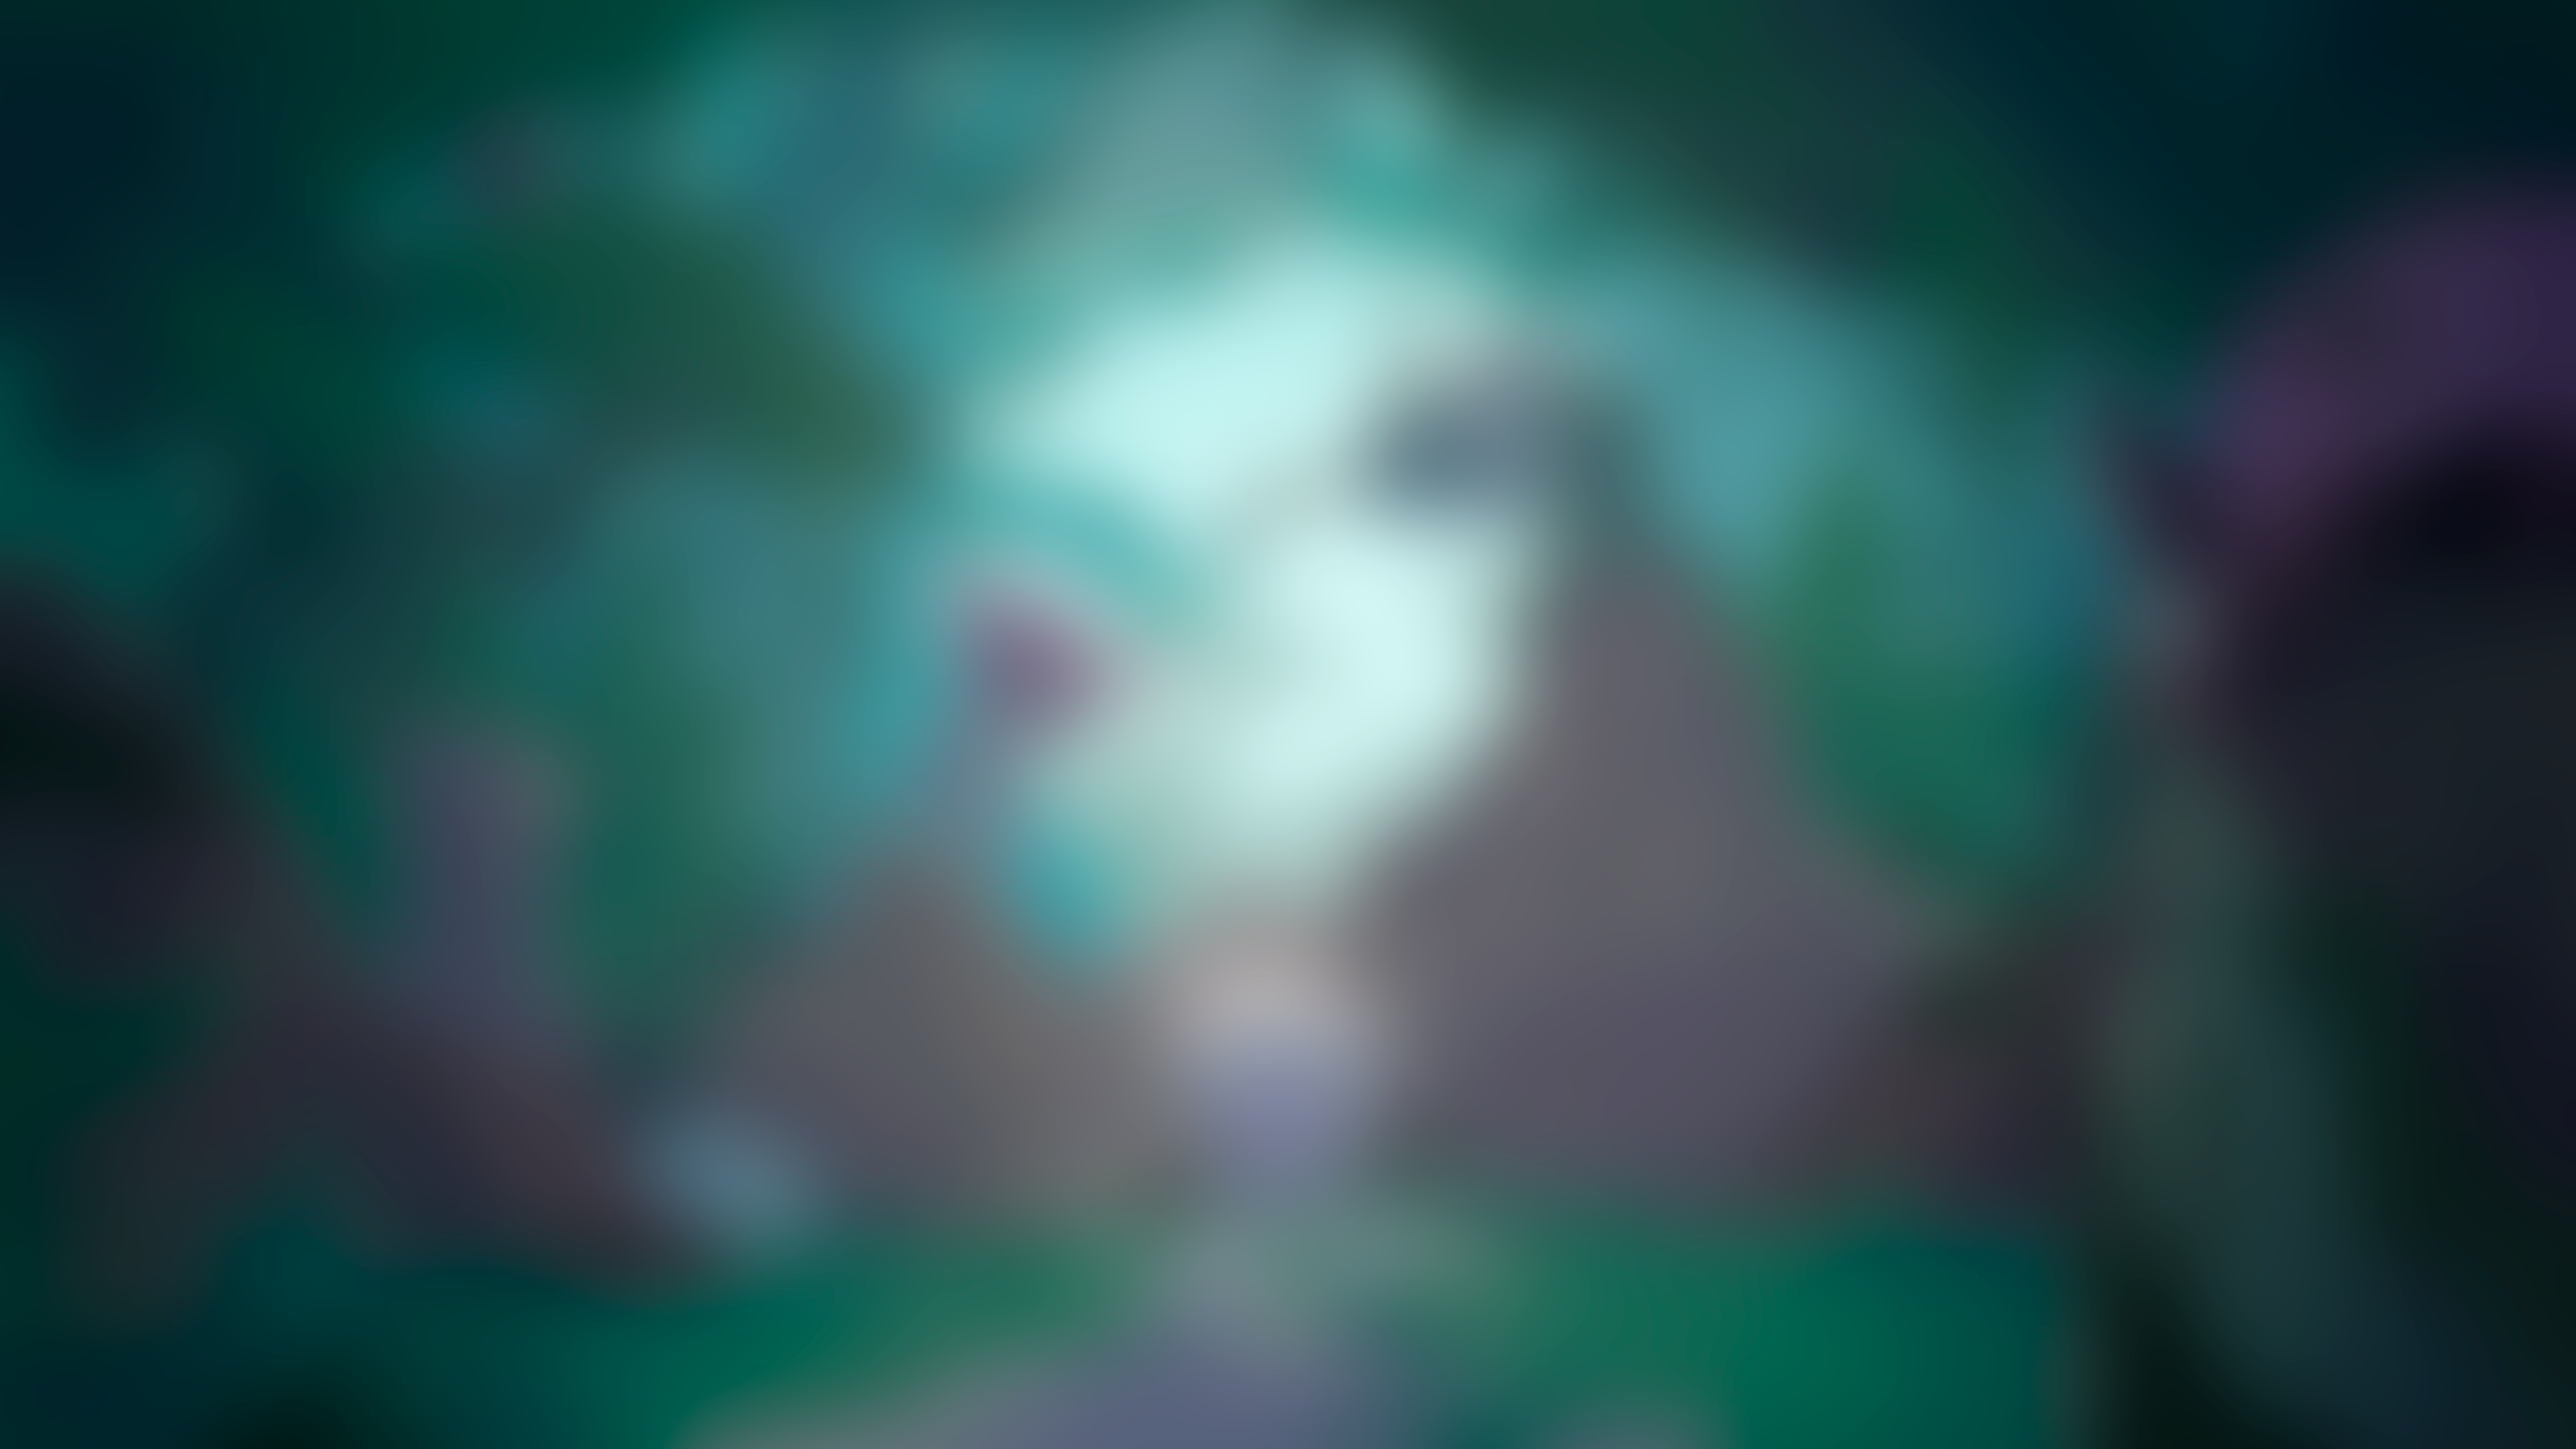
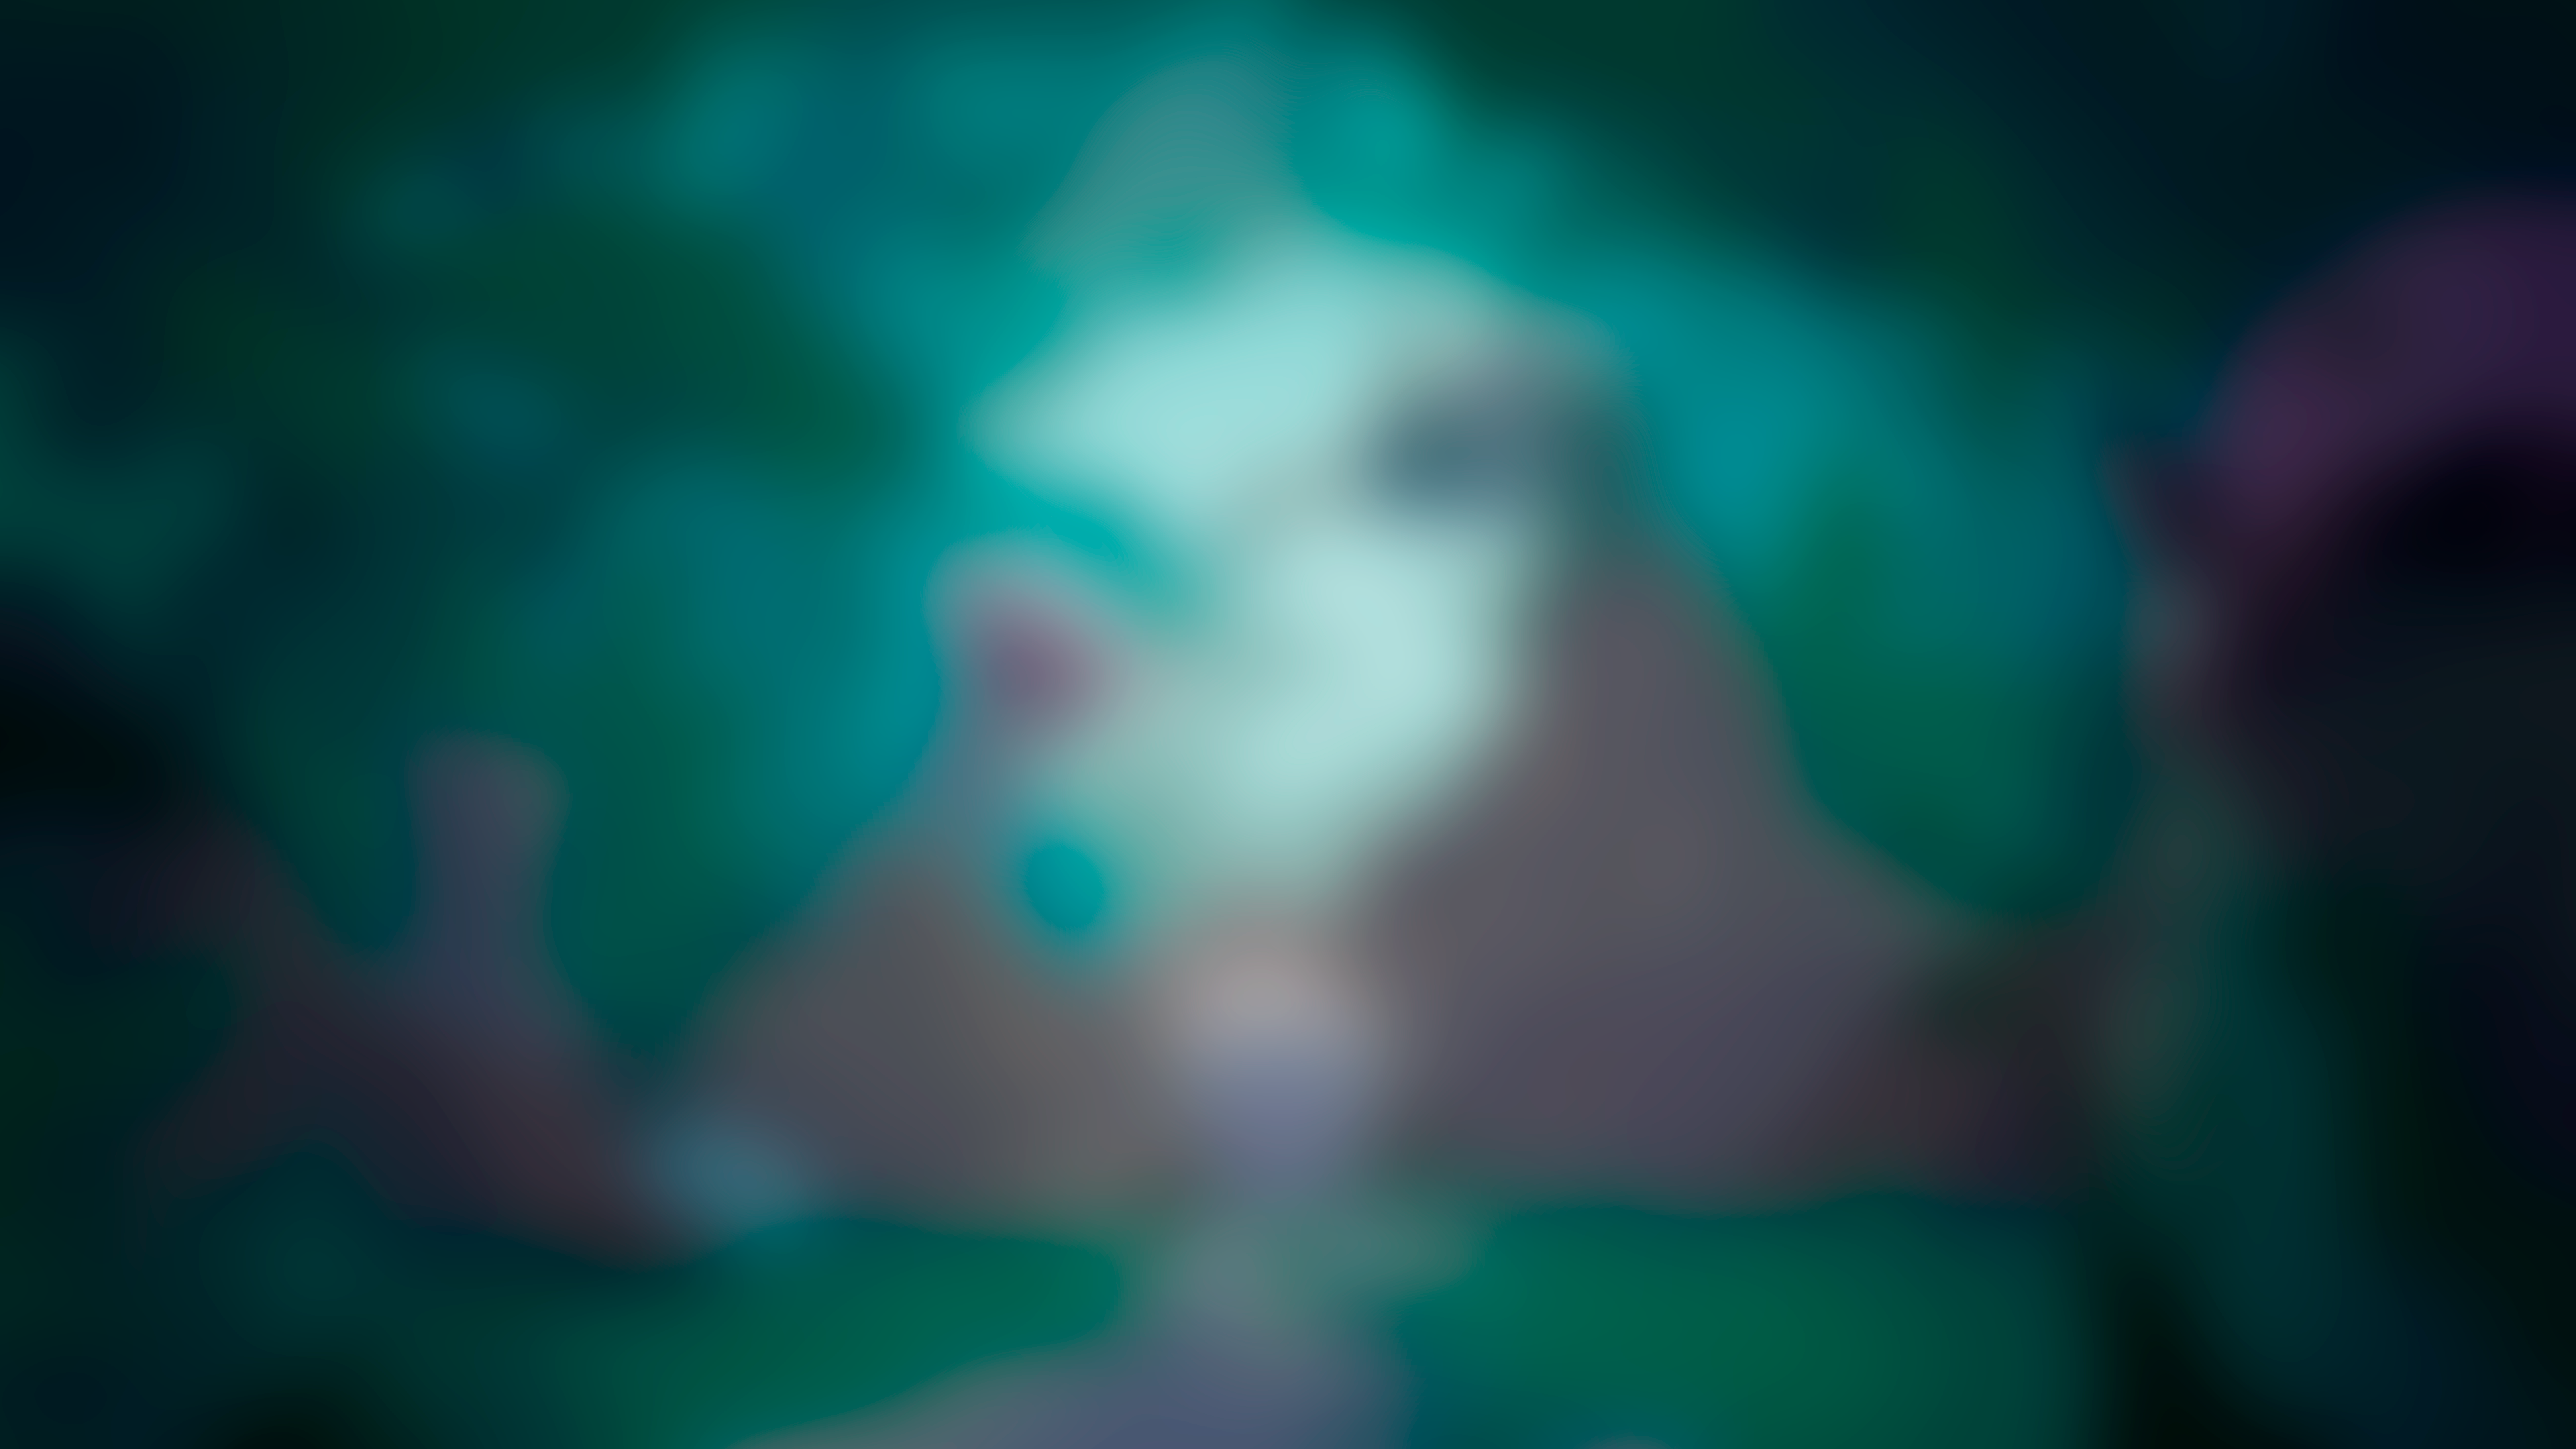
Página casi terminada

diff --git a/PaginaWebExtremeFireHazard/css/brunoStyle.css b/PaginaWebExtremeFireHazard/css/brunoStyle.css
@@ -251,6 +251,11 @@ body
 	color: #ffb6ff;
 	text-shadow: 3px 3px 5px #000000;
 }
+.efh-highlight
+{
+	color: #00aaff;
+	text-shadow: 3px 3px 5px #000000;
+}
 
 .divisor-line
 {
@@ -260,6 +265,52 @@ body
 	margin: auto;
 	width: 50vh;
     height: auto;
+}
+
+.card{
+	display: flex;
+    flex-flow: row nowrap;
+    align-items: center;
+    justify-content: center;
+    font-family: WhiteStorm;
+    color: white;
+    gap: 40px;
+	padding-left: 10%;
+	padding-right: 10%;
+    padding-top: 2%;
+    padding-bottom: 2%;
+	transition: padding 0.2s ease, background-color 0.2s ease;
+}
+.card:hover
+{
+	padding-top: 4%;
+    padding-bottom: 4%;
+	background-color: rgba(0, 0, 0, 0.65);
+}
+.card-img
+{	
+	width: 20%;
+	height: auto;
+	border: 0.25rem solid transparent;
+	border-radius: 20px;
+	transition: border 0.2s ease, width 0.2s ease;
+}
+.card-img:hover
+{	
+	width: 22%;
+	height: auto;
+	border: 0.25rem solid white;
+}
+.card-text
+{
+	padding-left: 10%;
+	flex: 1;
+	font-size: 2rem;
+	text-shadow: 2px 2px 7px #000000;
+}
+.card-text a
+{
+	color: violet;
 }
 
 #downloadButton
@@ -311,12 +362,8 @@ ul
 
 .footer
 {
-	font-family: 'Google', sans-serif;
-	font-weight:bold;
 	padding-bottom: 1%;
-	text-align: center;
 	color: white;
-	text-shadow: 2px 2px 7px #000000;
 	padding: 0 5%;
     width: 100%;
     height: 50px;
@@ -327,8 +374,17 @@ ul
 	margin-top: 4vh;
 	transition: all 0.3s ease;
 }
-
 .footer:hover
 {
     background: rgba(26, 11, 53, 1);
 }
+.footer a
+{
+	font-family: 'Google', sans-serif;
+	font-weight:bold;
+	text-align: center;
+	color: white;
+	text-shadow: 2px 2px 7px #000000;
+	text-decoration: none;
+}
+

diff --git a/PaginaWebExtremeFireHazard/html/bruno.html b/PaginaWebExtremeFireHazard/html/bruno.html
@@ -43,7 +43,7 @@
 				<img src="../media/img/Bruno/divider.png" alt="Divisor Decoration Line" class="divisor-line">
 				
 				<div id="catchphrase"> 
-					<p> The <span class="pink-highlight"> prototype </span> that <span class="pink-highlight">forged us </span> </p>
+					<p> The <span class="pink-highlight"> prototype </span> that <span class="pink-highlight">forged</span> <span class="efh-highlight">Extreme Fire Hazard </span> </p>
 				</div>
 				
 				<div id="short-description"> 
@@ -56,19 +56,45 @@
 			</section>
 			
 			
-			<section id="card-1">
-			<img src="../media/img/Bruno/concept.png" alt="First Iru's Dawn Concept">
-			
-			
+			<section id="card-1" class="card">
+			<img class="card-img" src="../media/img/Bruno/concept.png" alt="First Iru's Dawn Concept">
+			<div class="card-text">
+				<p><span class="pink-highlight">Iru's Dawn</span> started as a 2020 highschool project. 
+				Two of our members, <span class="pink-highlight">Rafa</span> and <span class="pink-highlight">Bruno</span>,
+				developed an early concept as part of their Diploma.
+				Here, <span class="pink-highlight">Iru's Dawn</span> was a <span class="pink-highlight">top-down pixel art RPG</span>.</p>
+				<p>Since then, the <span class="pink-highlight">project</span> has evolved and
+				the <span class="pink-highlight">team</span> behind it has grown.</p>
+			</div>
 			</section>
 			
-			<section id="card-2">
-			<img src="../media/img/Bruno/progress.png" alt="Iru's Dawn Pixel Art Progress Example">
+			<section id="card-2" class="card">
+				<div class="card-text">
+					<p><span class="pink-highlight">2024</span> came, and <span class="pink-highlight">University</span> with it. 
+					The team grew, and <span class="efh-highlight">Extreme Fire Hazard</span> was <span class="pink-highlight">created</span>
+					as it is known today.
+					As a final <span class="pink-highlight">Game Development Degree project</span>, they developed <span class="pink-highlight">two</span>
+					potential <span class="pink-highlight">prototypes</span>. 
+					One was <a href="rafa.html">Snackrifice</a>.</p>
+					<p>The other one was <span class="pink-highlight">Iru's Dawn</span>.</p>
+					<p>The project was <span class="pink-highlight">refactored and redesigned</span>, into what it is today:</p>	
+					<p>A 2.5D <span class="pink-highlight">roguelite</span> shooter where you <span class="pink-highlight">face</span>
+					the <span class="pink-highlight">killer of the Universe</span>.</p>	
+				</div>
+				<img class="card-img" src="../media/img/Bruno/progress.png" alt="Iru's Dawn Pixel Art Progress Example">
 			</section>
 			
-			<section id="card-3">
-			<img src="../media/img/Bruno/mystery.png" alt="Iru's Dawn Strange Narrative Mystery Screenshot">
-			
+			<section id="card-3" class="card">
+				<img class="card-img" src="../media/img/Bruno/mystery.png" alt="Iru's Dawn Strange Narrative Mystery Screenshot">
+				<div class="card-text">
+					<p><a href="rafa.html">Snackrifice</a> got <span class="pink-highlight">selected</span> as <span class="pink-highlight">final project</span>
+					that would be further developed. The team put <span class="pink-highlight">Iru's Dawn</span> aside for the time,
+					and centered their efforts in developing <span class="pink-highlight">Snackrifice</span> as their first fully fleshed 
+					<span class="pink-highlight">full scale project</span>.
+					<p>But the prototype still exists... waiting... as a <span class="pink-highlight">promise</span> of what will one day be...</p>	
+					<p>And as a <span class="pink-highlight">reminder</span> of where we, <span class="efh-highlight">Extreme Fire Hazard</span>, 
+					have started our journey!</p>	
+				</div>
 			</section>
 			
 			<section id="download-section">
@@ -76,11 +102,10 @@
 				<a id="downloadButton" href="../media/build/IrusDawnx86_64.zip" download="IrusDawnx86_64.zip">Download&nbsp;<span id="buildText"> Build</span></a>
 				<img src="../media/img/Bruno/divider.png" alt="Divisor Decoration Line" class="divisor-line">
 			</section>
-		
 		</main>
 		
 		<footer class="footer">
-			<p> &copy; 2026 Extreme Fire Hazard Studios. All rights reserved. </p>
+			<a href="../index.html"> &copy; 2026 Extreme Fire Hazard Studios. All rights reserved. </a>
 		</footer>
 	</body>
 </html>